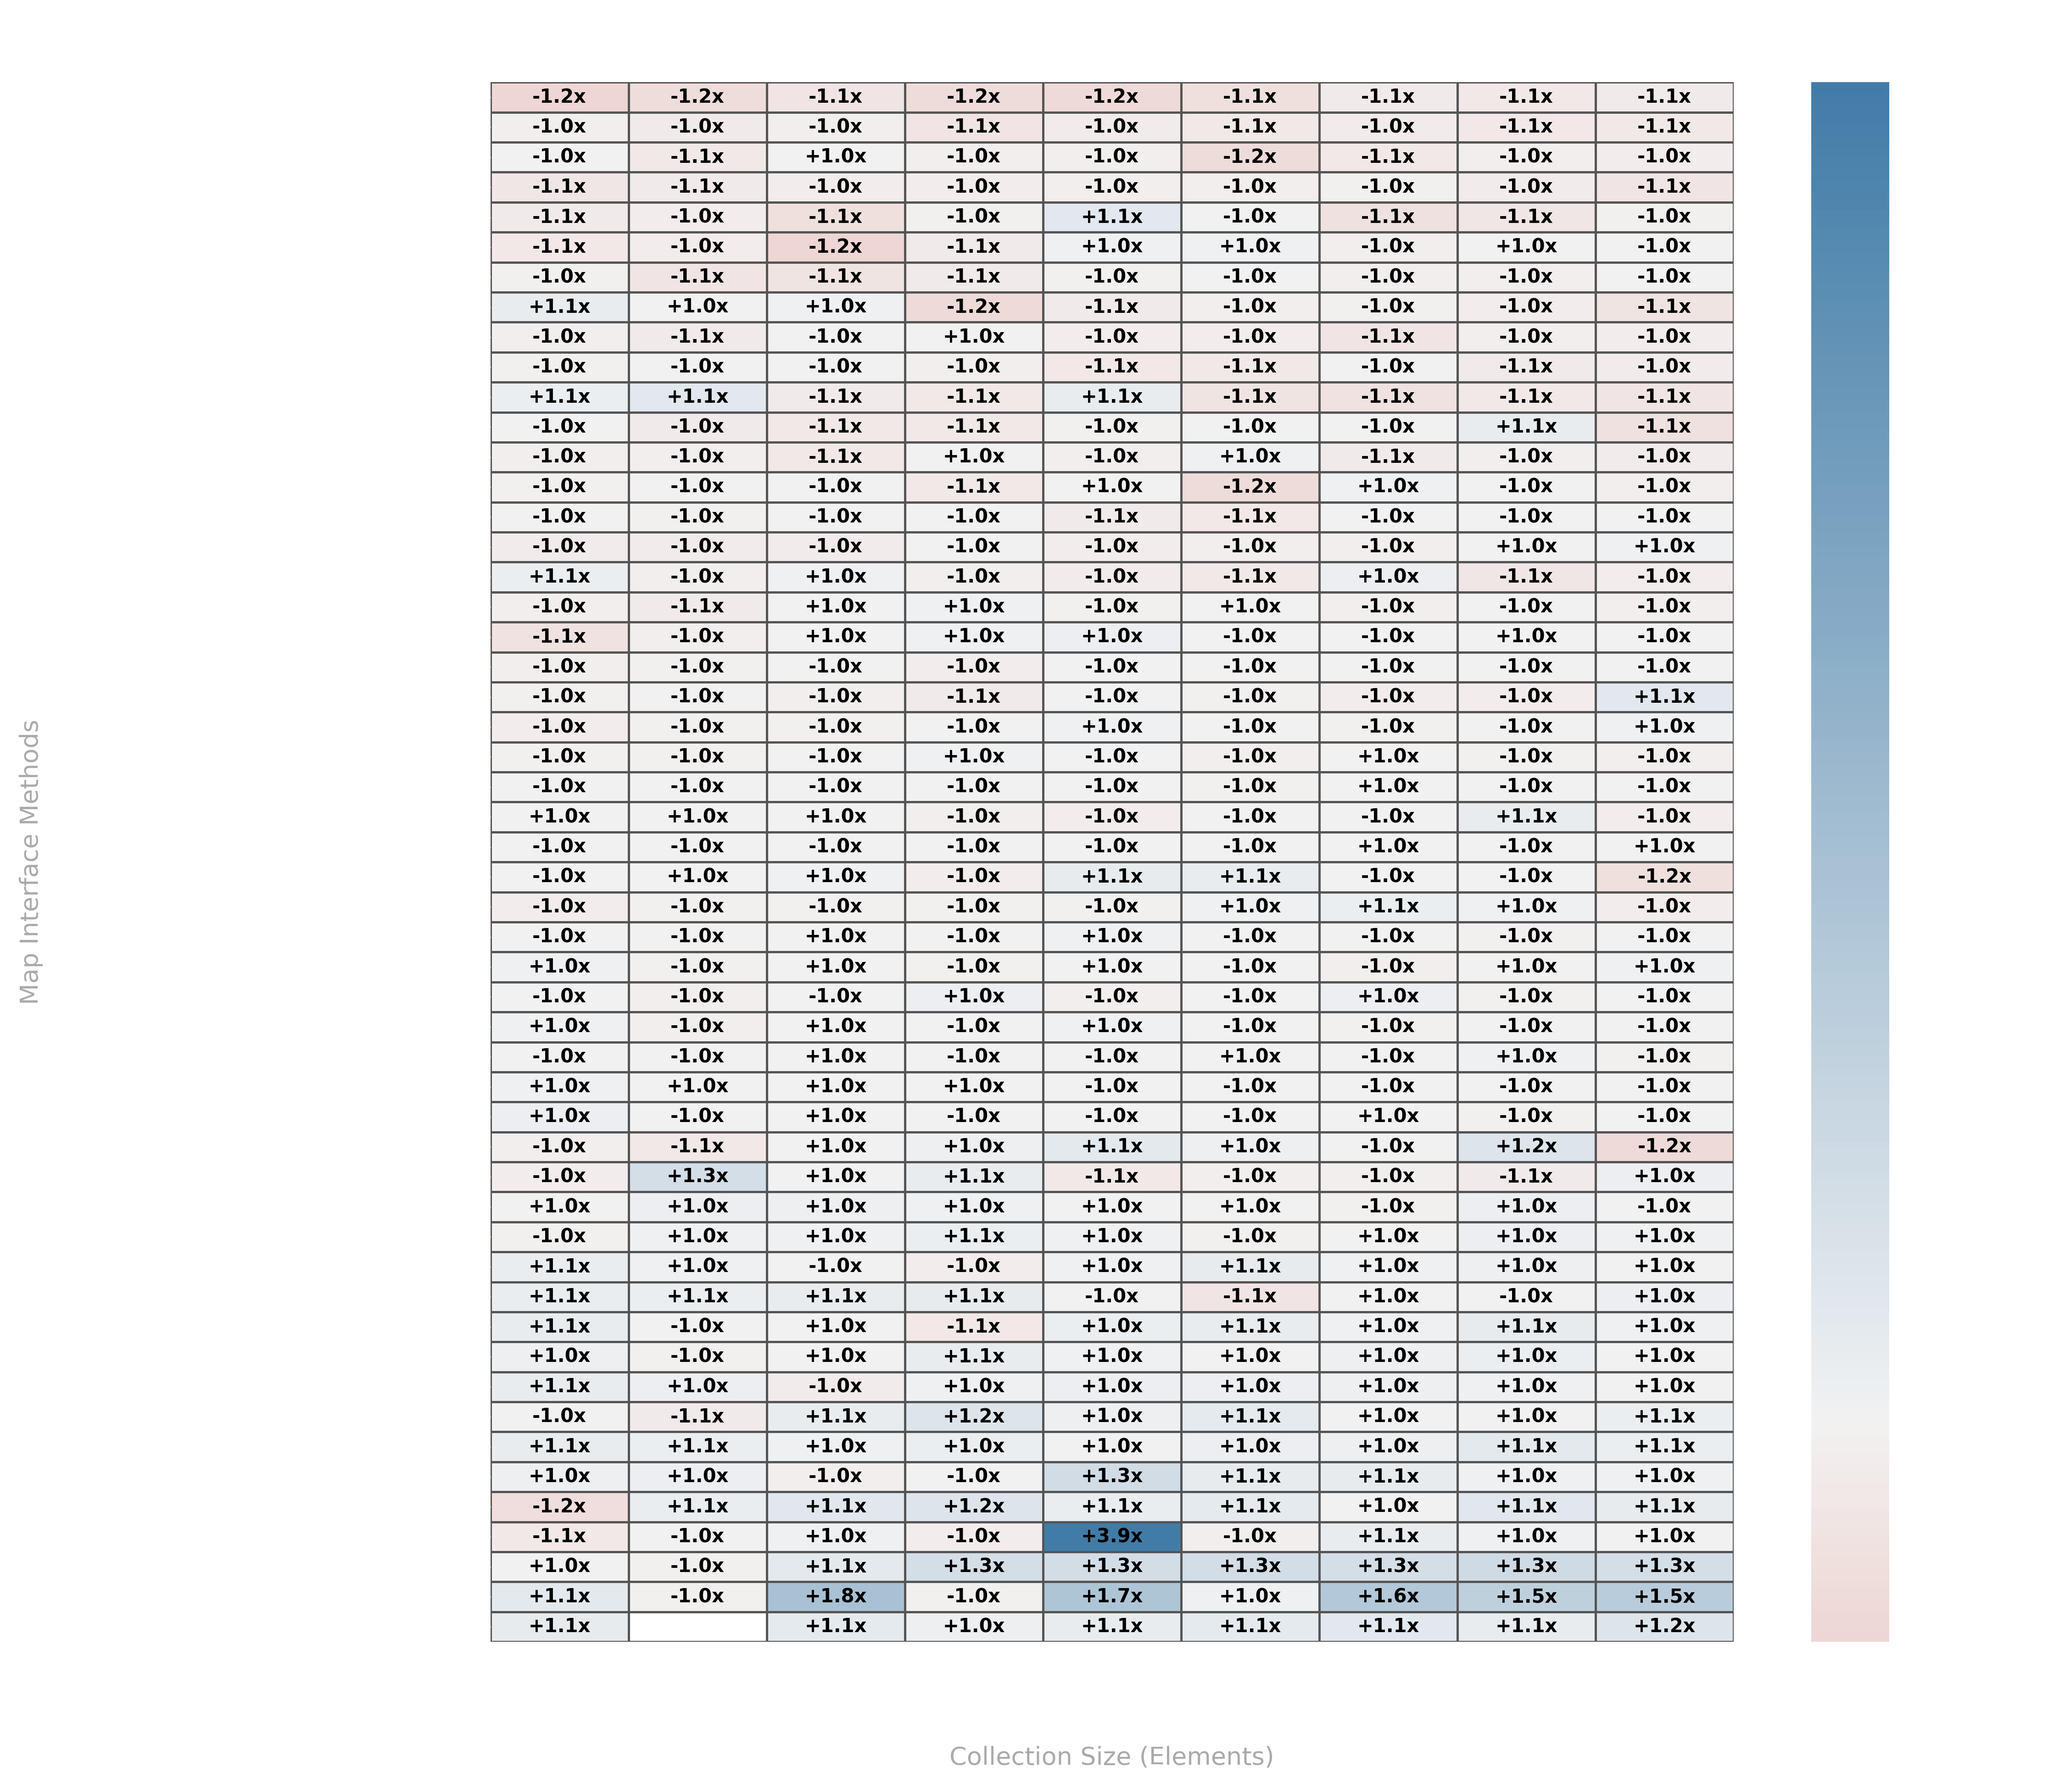
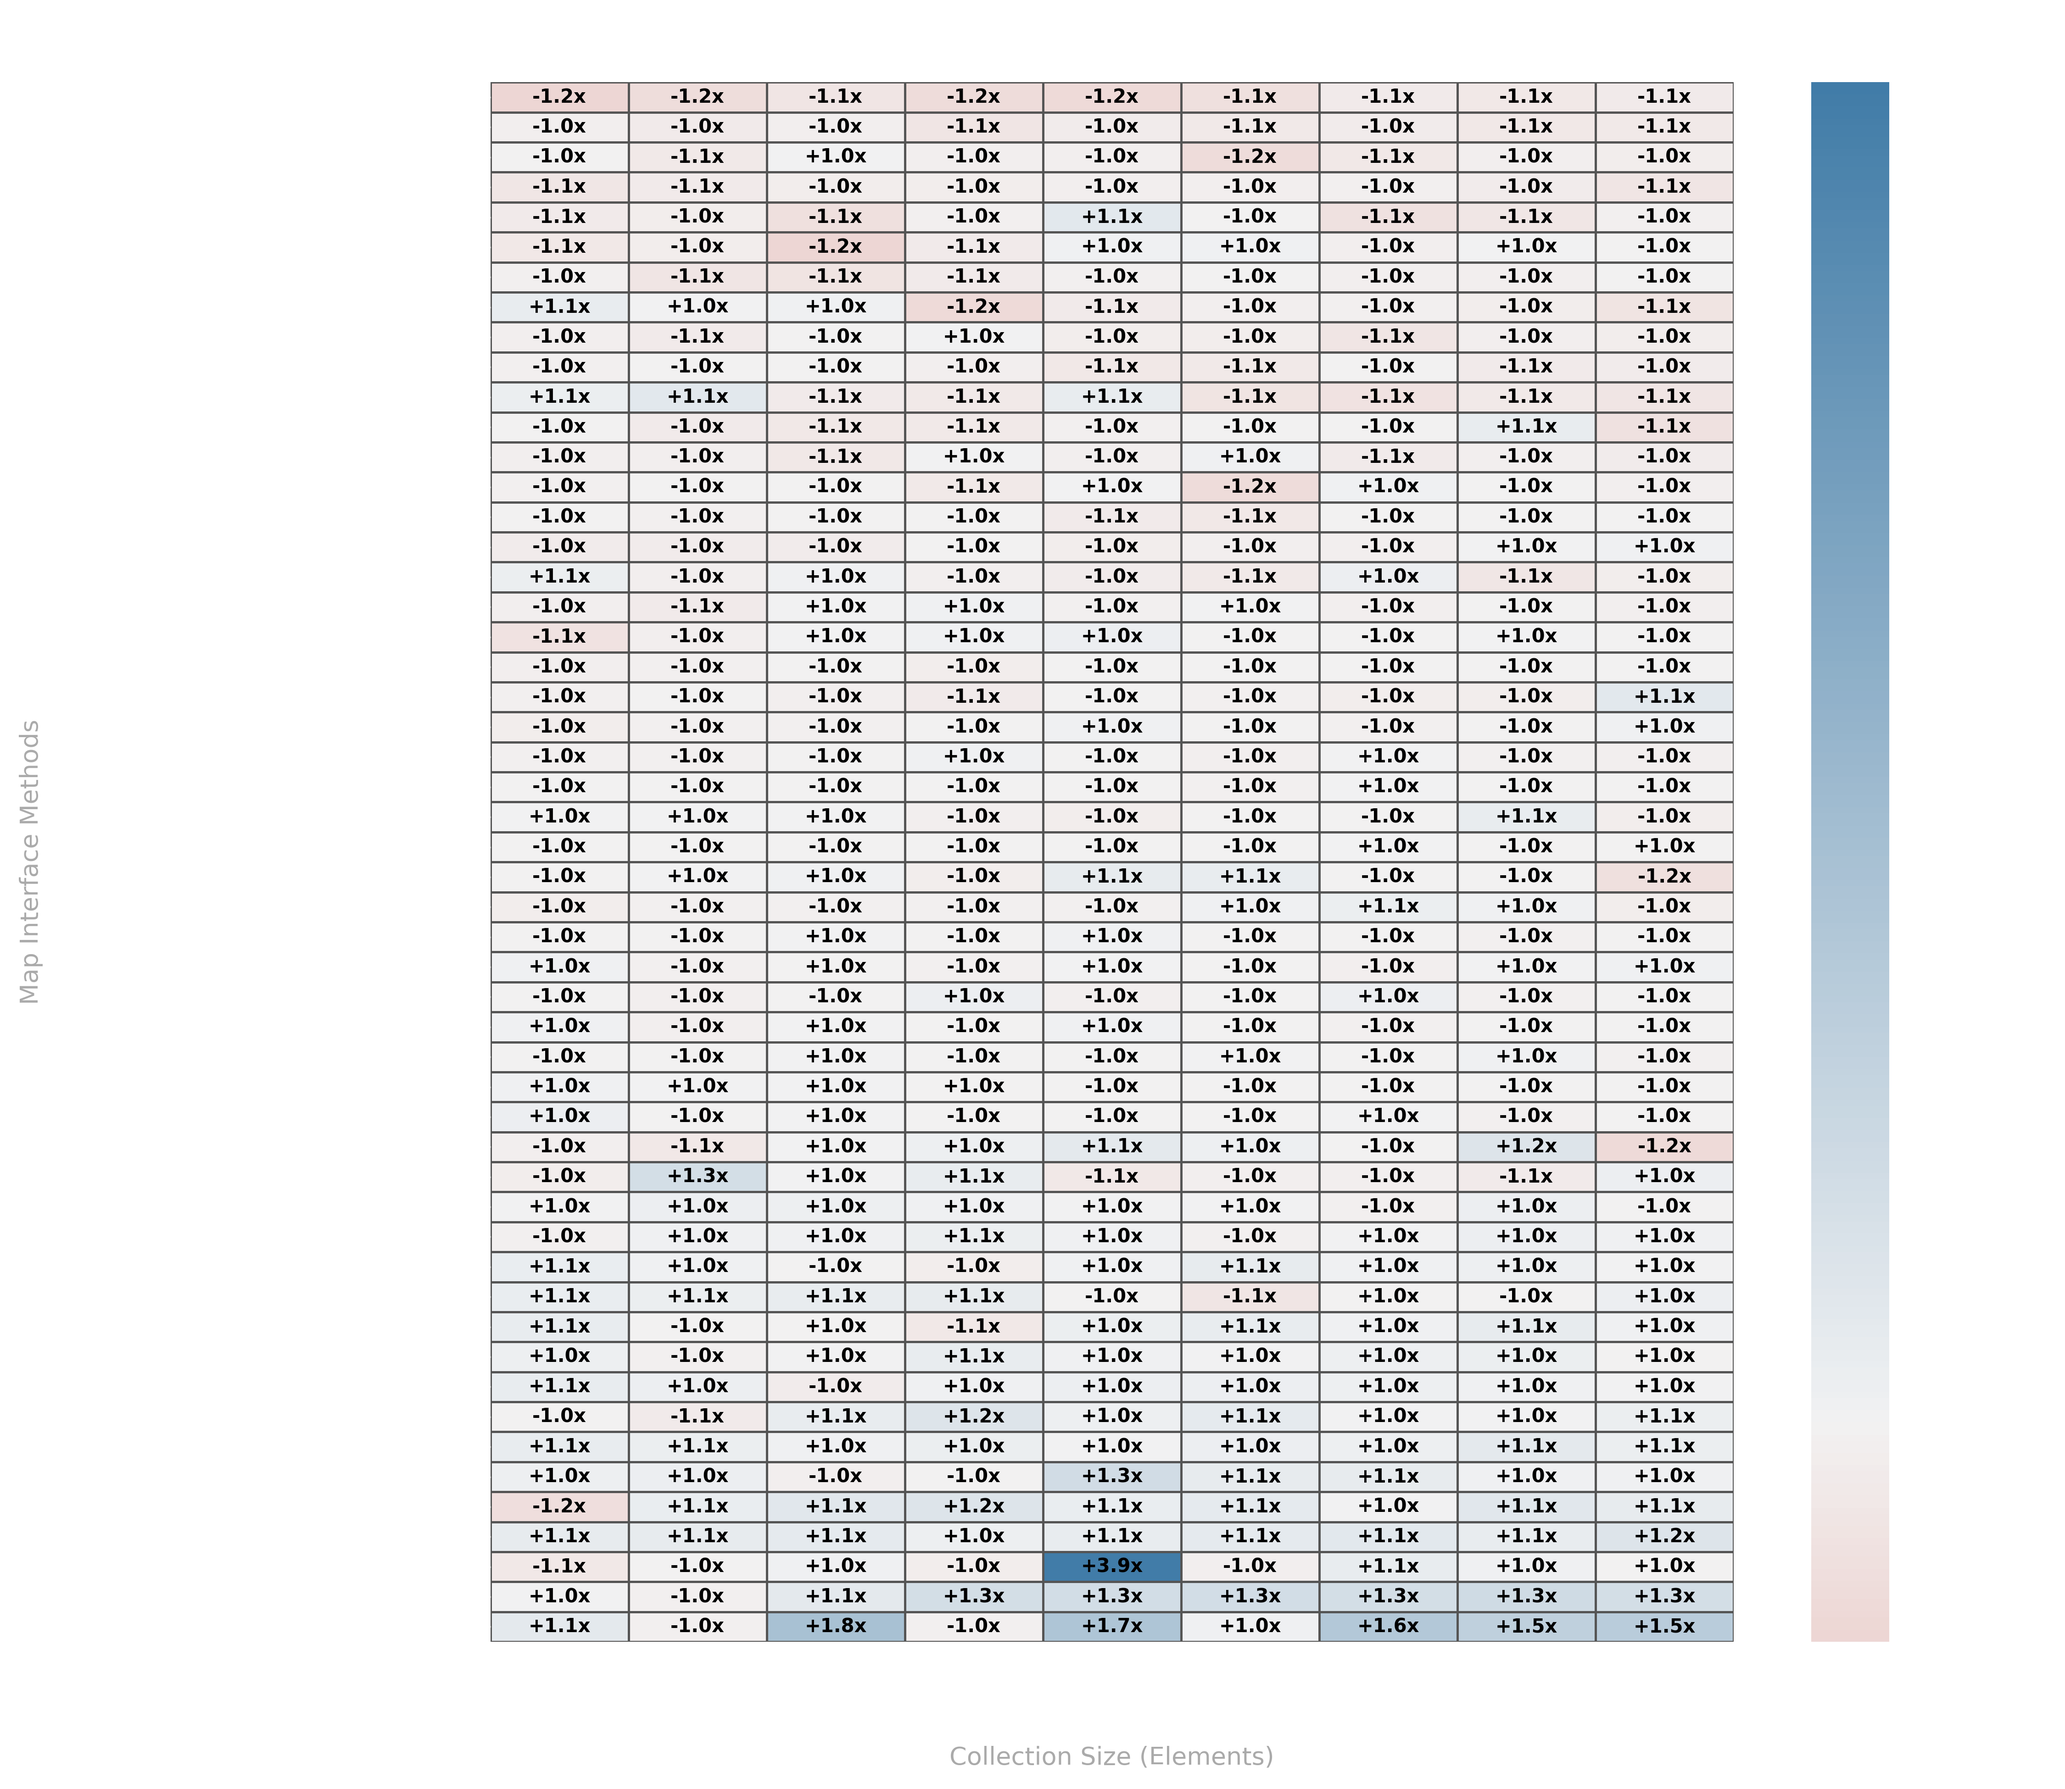
fixing missed value from (Constructor(Sorter)) for graphs

Changed region(s): [[0.3733, 0.8377, 0.84, 0.9308], [0.2489, 0.8687, 0.28, 0.8997]]

diff --git a/PerformanceCharts/heatmap.py b/PerformanceCharts/heatmap.py
@@ -70,7 +70,7 @@ sns.heatmap(clipped_heatmap_data,
             annot_kws={'size': 10, 'weight': 'bold', 'color': '#000000'})
 
 # 10. Format Title, Labels, and Colorbar styling to match transparency guidelines
-ax.set_title('CustomTreeMap vs JDK TreeMap Performance Speedup Matrix Heatmap Across Sizes\n(Positive = CustomTreeMap Faster, Negative = JDK TreeMap Faster)',
+ax.set_title('CustomTreeMap vs JDK (Positive = Custom Faster, Negative = JDK Faster)',
              color='#ffffff', fontsize=16, fontweight='bold', pad=20)
 ax.set_ylabel('Map Interface Methods', color='#aaaaaa', fontsize=13, labelpad=10)
 ax.set_xlabel('Collection Size (Elements)', color='#aaaaaa', fontsize=13, labelpad=10)

diff --git a/README.md b/README.md
@@ -158,6 +158,7 @@ Geometric mean (ns/op) across all tested collection sizes (10,000-100,000 elemen
 ![Chart](PerformanceCharts/TreeMap.png)
 ![Chart](PerformanceCharts/TreeMap_Comparator.png)
 ![Chart](PerformanceCharts/TreeMap_Map.png)
+![Chart](PerformanceCharts/TreeMap_SortedMap.png)
 ![Chart](PerformanceCharts/ceilingEntry_K.png)
 ![Chart](PerformanceCharts/ceilingKey_K.png)
 ![Chart](PerformanceCharts/clear.png)
